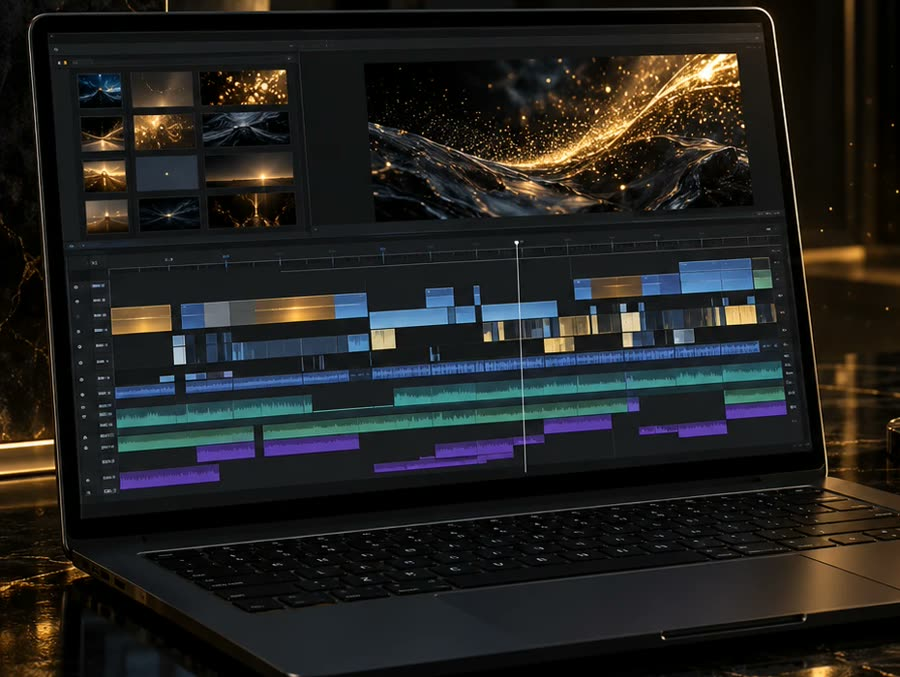
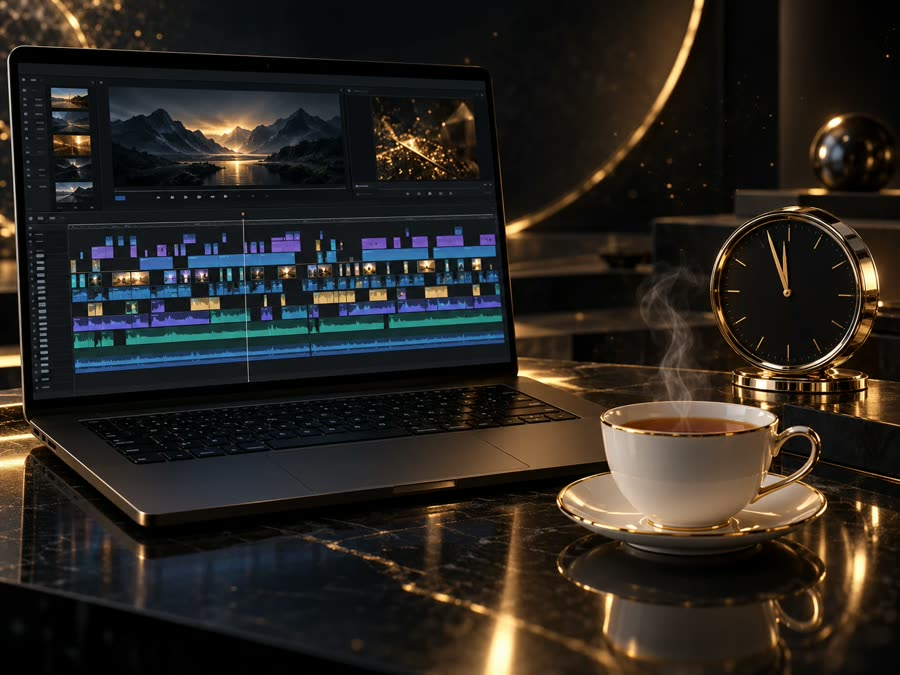
Картинка «Сама» с чаем и часами

diff --git a/index.html b/index.html
@@ -443,7 +443,7 @@ footer{padding-block:30px;color:var(--dim);font-size:14px;text-align:center}
     <div class="head rise"><h2>Почему рилс выходят редко и&nbsp;как это исправить</h2></div>
     <div class="duo rise">
       <div class="side"><img class="side-img" src="img/pochemu-1.jpg" alt="Песочные часы и телефон с бесконечной загрузкой" loading="lazy" width="900" height="675"><p class="tag">С монтажёром</p><h3>Ждёшь и правишь</h3><p>Для каждого ролика нужно найти монтажёра, объяснить задумку, дождаться результата и несколько раз отправить правки. Рилс выходят реже, чем хотелось бы.</p></div>
-      <div class="side"><img class="side-img" src="img/pochemu-2.jpg" alt="Ноутбук с длинной дорожкой монтажа" loading="lazy" width="900" height="675"><p class="tag">Сама</p><h3>Один ролик на весь вечер</h3><p>Если монтировать самой, один рилс может занять весь вечер. На регулярные публикации просто не хватает сил.</p></div>
+      <div class="side"><img class="side-img" src="img/pochemu-2.jpg" alt="Ноутбук с длинной дорожкой монтажа, чай и часы около полуночи" loading="lazy" width="900" height="675"><p class="tag">Сама</p><h3>Один ролик на весь вечер</h3><p>Если монтировать самой, один рилс может занять весь вечер. На регулярные публикации просто не хватает сил.</p></div>
       <div class="side"><img class="side-img" src="img/pochemu-3.jpg" alt="Из ноутбука золотым потоком вылетают готовые рилс" loading="lazy" width="900" height="675"><p class="tag">Как исправить</p><h3>Научиться монтировать с помощью ИИ</h3><p>На интенсиве ты поставишь на компьютер готовый набор, где анимация и оформление уже предусмотрены. Ты берёшь свои материалы или описываешь идею для рисованного видео, а потом меняешь результат обычными словами.</p></div>
     </div>
   </div>
